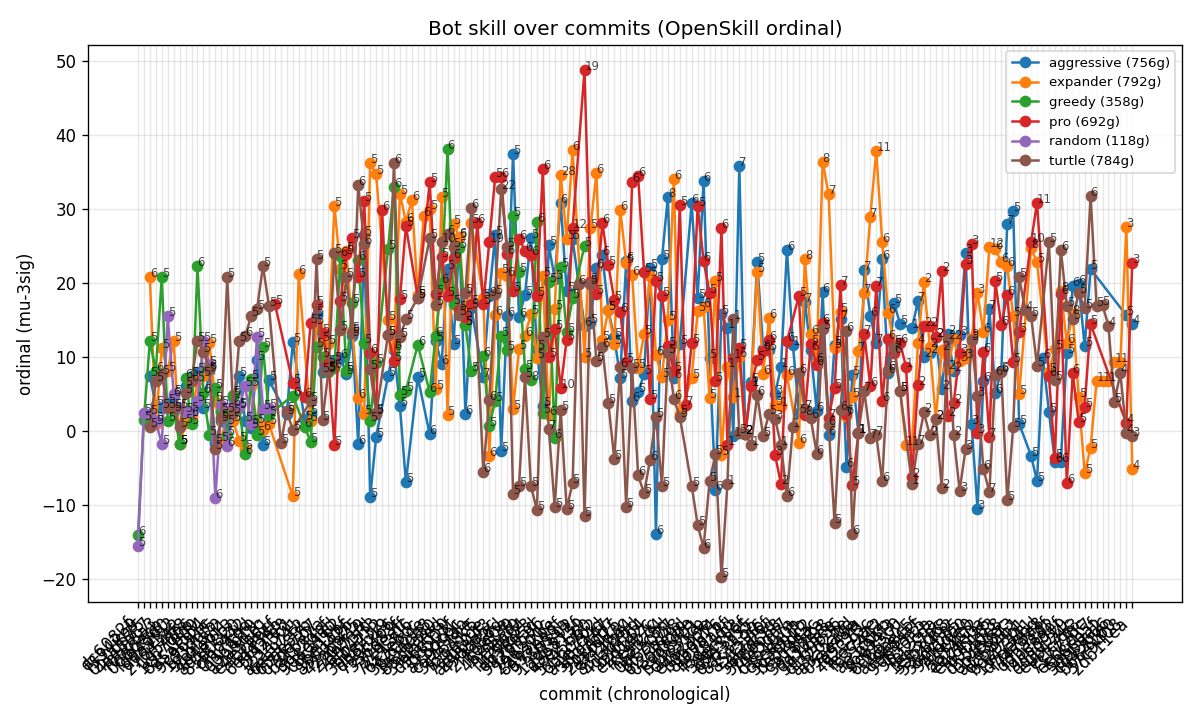
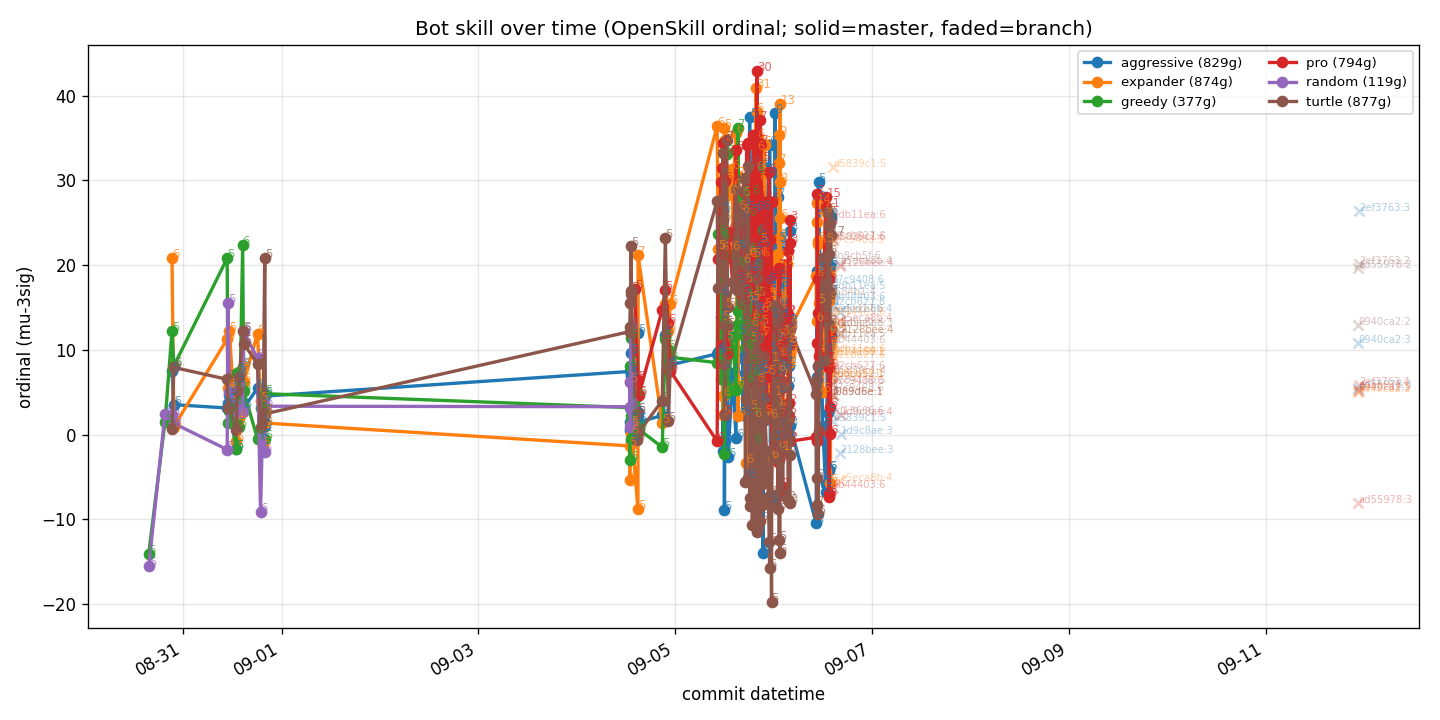
Replot: datetime x-axis, branch commits faded

diff --git a/benchmarks/plot_elo.py b/benchmarks/plot_elo.py
@@ -1,12 +1,15 @@
-"""Plot bot Elo over commits (one line per bot name).
+"""Plot bot Elo over commits (one series per bot name).
 
 Usage: PYTHONPATH=src .venv/bin/python benchmarks/plot_elo.py [--out docs/bot/elo.png]
-X = commits in chronological order (only commits present in elos.json);
-Y = ordinal (mu-3sigma); one line per bot name (+ games-played annotations).
+X = commit datetime (actual commit timestamp, not commit index).
+Y = ordinal (mu-3sigma); games-played annotations per point.
+Commits on master's lineage are solid; off-master (loop branches) are
+faded — branch experiments read as faint suggestions, master as the record.
 """
 import argparse
 import json
 import subprocess
+from datetime import datetime
 from pathlib import Path
 
 ROOT = Path(__file__).resolve().parents[1]
@@ -21,6 +24,18 @@ def commit_time(sha: str) -> int:
         return 0
 
 
+_ancestor_cache: dict[str, bool] = {}
+
+
+def on_master(sha: str) -> bool:
+    if sha not in _ancestor_cache:
+        r = subprocess.run(["git", "-C", str(ROOT), "merge-base",
+                            "--is-ancestor", sha, "main"],
+                           capture_output=True, text=True)
+        _ancestor_cache[sha] = (r.returncode == 0)
+    return _ancestor_cache[sha]
+
+
 def main(argv=None) -> int:
     ap = argparse.ArgumentParser()
     ap.add_argument("--out", default="docs/bot/elo.png")
@@ -29,38 +44,56 @@ def main(argv=None) -> int:
     import matplotlib
     matplotlib.use("Agg")
     import matplotlib.pyplot as plt
+    import matplotlib.dates as mdates
 
     elo = json.loads(Path(args.elo).read_text())
     by_bot: dict[str, list] = {}
     for key, v in elo.items():
         name, sha = key.rsplit("-", 1)
-        by_bot.setdefault(name, []).append((commit_time(sha), sha, v["mu"] - 3 * v["sigma"], v["games"]))
-    # commit order across all entries
-    commits = sorted({sha for pts in by_bot.values() for _, sha, _, _ in pts},
-                     key=commit_time)
-    idx = {sha: i for i, sha in enumerate(commits)}
-    short = [s[:7] for s in commits]
-    plt.figure(figsize=(10, 6))
-    for name, pts in sorted(by_bot.items()):
-        pts = [p for p in pts if p[3] >= 1]
-        if not pts:
+        if v.get("games", 0) < 1:
             continue
-        pts = sorted(pts)
-        xs = [idx[sha] for _, sha, _, _ in pts]
-        ys = [e for _, _, e, _ in pts]
-        gs = [g for _, _, _, g in pts]
-        plt.plot(xs, ys, marker="o", label=f"{name} ({sum(gs)}g)")
-        for x, y, g in zip(xs, ys, gs):
-            plt.annotate(str(g), (x, y), fontsize=7, alpha=0.7)
-    plt.xticks(range(len(commits)), short, rotation=45, ha="right")
-    plt.xlabel("commit (chronological)")
-    plt.ylabel("ordinal (mu-3sig)")
-    plt.title("Bot skill over commits (OpenSkill ordinal)")
-    plt.legend(fontsize=8)
-    plt.grid(alpha=0.3)
-    plt.tight_layout()
+        dt = datetime.fromtimestamp(commit_time(sha))
+        by_bot.setdefault(name, []).append(
+            (dt, sha, v["mu"] - 3 * v["sigma"], v["games"]))
+
+    fig, ax = plt.subplots(figsize=(12, 6))
+    for name, pts in sorted(by_bot.items()):
+        master = sorted(p for p in pts if on_master(p[1]))
+        branch = sorted(p for p in pts if not on_master(p[1]))
+        color = None
+        total_g = sum(g for _, _, _, g in pts)
+        if master:
+            xs = [p[0] for p in master]
+            ys = [p[2] for p in master]
+            (ln,) = ax.plot(xs, ys, marker="o", linewidth=2,
+                            label=f"{name} ({total_g}g)")
+            color = ln.get_color()
+            for x, y, g in zip(xs, ys, [p[3] for p in master]):
+                ax.annotate(str(g), (x, y), fontsize=7, alpha=0.7,
+                            color=color)
+        if branch:
+            xs = [p[0] for p in branch]
+            ys = [p[2] for p in branch]
+            ax.scatter(xs, ys, marker="x", s=36, alpha=0.25,
+                       color=color, label=(None if master else f"{name} ({total_g}g)"))
+            if not master:
+                color = "gray"
+            for x, y, g, sha in [(p[0], p[2], p[3], p[1]) for p in branch]:
+                ax.annotate(f"{sha[:7]}:{g}", (x, y), fontsize=6,
+                            alpha=0.35, color=color)
+        if not master and branch:
+            # label branch-only series once
+            pass
+    ax.xaxis.set_major_formatter(mdates.DateFormatter("%m-%d"))
+    fig.autofmt_xdate()
+    ax.set_xlabel("commit datetime")
+    ax.set_ylabel("ordinal (mu-3sig)")
+    ax.set_title("Bot skill over time (OpenSkill ordinal; solid=master, faded=branch)")
+    ax.legend(fontsize=8, ncol=2)
+    ax.grid(alpha=0.3)
+    fig.tight_layout()
     out = ROOT / args.out
-    plt.savefig(out, dpi=120)
+    fig.savefig(out, dpi=120)
     print(f"wrote {out}")
     return 0
 
